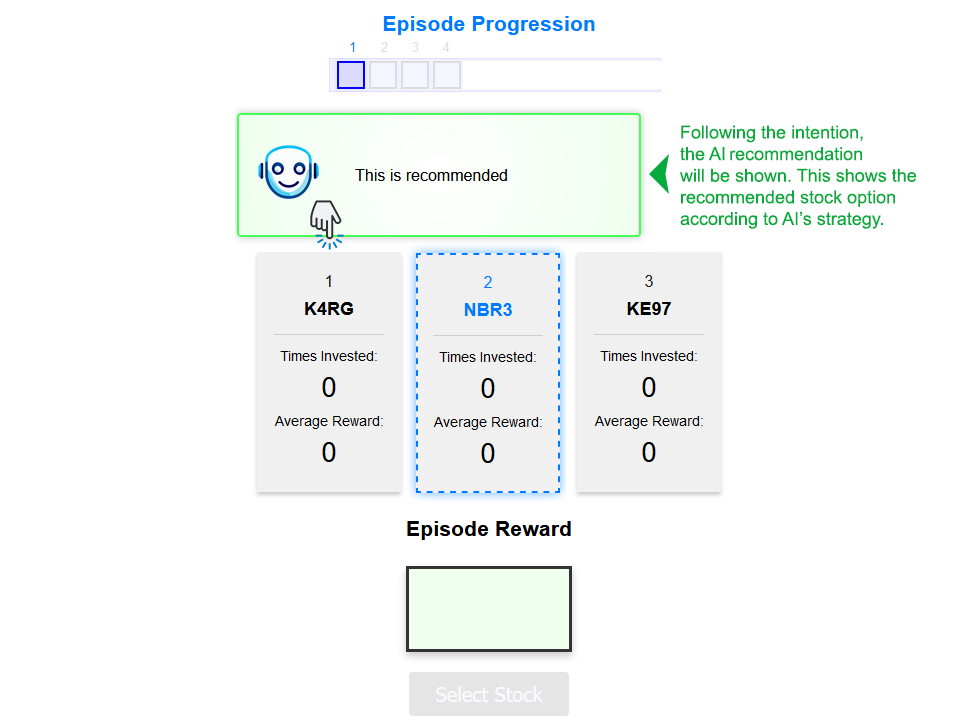
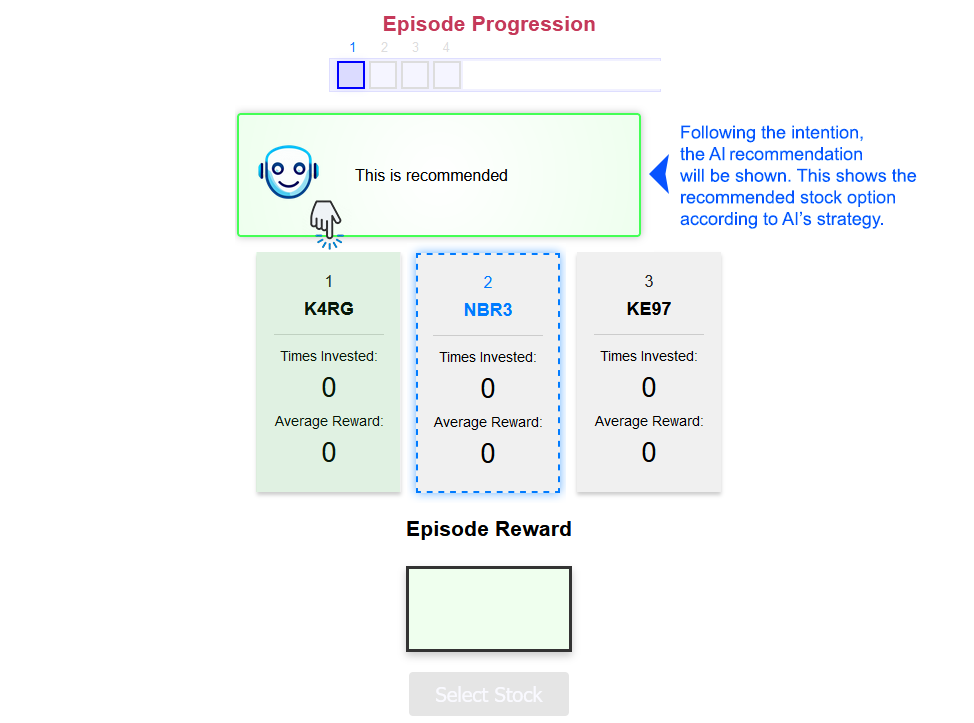
alpha update

Changed region(s): [[0.6468, 0.1521, 0.924, 0.3347], [0.4004, 0.0304, 0.616, 0.0609]]

diff --git a/app/templates/gamecomplete.html b/app/templates/gamecomplete.html
@@ -1,6 +1,41 @@
 {% extends 'base.html' %}
-{% block title %}First Game{% endblock %}
+{% block title %}Game Completed{% endblock %}
 {% block content %}
-Game Complete. Reward Code: #########
-<label for="rewardCode">Your extra earnings: {{ money_earned }}$</label>
+<script>
+    function copyToClipboard(elementId) {
+        var copyText = document.getElementById(elementId);
+        var textArea = document.createElement("textarea");
+        textArea.value = copyText.textContent;
+        document.body.appendChild(textArea);
+        textArea.select();
+        document.execCommand("Copy");
+        textArea.remove();
+    }
+</script>
+<div style="text-align: center;">
+    <h2>Congratulations, you completed the experiment.</h2>
+</div>
+
+<div style="text-align: center; margin-top: 20px;">
+    <div style="display: inline-block; padding: 10px; border: 1px solid #000; border-radius: 15px; font-size: 20px;" onclick="copyToClipboard('rewardC')">
+        Reward Code: <span id="rewardC" style="font-weight: bold; font-size:26px; color:#44ff55">{{ rewardC }}</span>
+        <button style="border: none; background: none;" onclick="copyToClipboard('rewardC')">
+            <img src="../static/copy_icon.png" alt="Copy to clipboard" width="20" height="26">
+        </button>
+    </div>
+</div>
+
+<div style="text-align: center; margin-top: 20px;">
+    <label for="rewardCode">Your extra earnings: ${{ money_earned }}</label>
+</div>
+
+<div id="survey" style="margin-left:0%; align-content:center; text-align:center; display: block;">
+    <p>We value your feedback! If you'd like, please share your thoughts about the experiment.</p><br>
+    <form method="POST" action="/gamecomplete/submit/">
+        <textarea id="feedback" name="feedback" rows="4" cols="50"></textarea>
+        <div id="complete" style="display: block; text-align: center;">
+            <button class="button" type="submit">Submit Feedback</button>
+        </div>
+    </form>
+</div>
 {% endblock %}

diff --git a/app/templates/task.html b/app/templates/task.html
@@ -55,10 +55,10 @@
       <h1>Investment Game</h1>
     </div>
     <div class="separator" style="width: 98%;"></div>
-    <p style="color: #222;">Welcome to the Investment Game. Discover six different investment options and maximize your earnings over 30 episodes!</p>
+    <p style="color: #222;">Welcome to the Investment Game. Explore six different investment options and maximize your earnings over 30 episodes!</p>
     <div class="separator" style="width: 98%;"></div>
     <div>
-      <div class="progress-subtitle" style="width: 98%; height: 40px; text-align: center;"><span style="height: 12px; color: #007bff; font-size: 16pt; font-weight: bold">Episode Progression</span></div>
+      <div class="progress-subtitle" style="width: 98%; height: 40px; text-align: center;"><span style="height: 12px; color: #7b0000; font-size: 16pt; font-weight: bold">Episode Progression</span></div>
     </div>     
     <div id="episode-numbers"></div>
       <div id="progress" style=" height: 32px; width: 97%; background-color: #f1f1ff; text-align: center; border:1px solid #dedeff;"></div>      
@@ -130,8 +130,8 @@
           <label class="question-label" for="q1">Which of the following is related to the topic of this survey?</label>
           <div class="question-options">
               <div class="options">
-                  <label class="option-label">Archeology</label>
-                  <input type="radio" name="q1" value="Archeology">
+                  <label class="option-label">Archaeology</label>
+                  <input type="radio" name="q1" value="Archaeology">
               </div>
               <div class="options">
                   <label class="option-label">Investment</label>

diff --git a/app/templates/login.html b/app/templates/login.html
@@ -68,11 +68,11 @@
                         In this study, you will engage in the investment game across multiple rounds.
                         <ul>
                         <li>You will see a tutorial explaining the game.</li>
-                        <li>Round 1: You'll play the Warm-Up game with an AI provides recommendations according to its own strategy. After the game, you will be asked to explain your strategy.</li>
+                        <li>Round 1: You'll play the Warm-Up game where an AI provides recommendations according to its own strategy. After the game, you will be asked to explain your strategy.</li>
                         <li>Round 2: You'll be paired with another AI and play the actual game where your score will determine your extra earnings.</li>
                         <li>Following the game completion, you will complete an evaluation survey.</li>
                         </ul>
-                        It's important to note that maintaining attention is crucial. Failing to pass more than 30% of the attention checks will result in failing the experiment.
+                        It's important to note that maintaining attention is crucial. Failing more than 30% of the attention checks will result in failing the experiment.
 
                         Thank you for your participation and enjoy the Investment Game Experiment!
                     </span>

diff --git a/app/templates/warmup.html b/app/templates/warmup.html
@@ -8,10 +8,10 @@
       <h1>Investment Game | Warm-Up</h1>
     </div>
     <div class="separator" style="width: 98%;"></div>
-    <p style="color: #222; width: 97%;">Welcome to the Warm-Up for Investment Game. Discover six different investment options and maximize your earnings over 10 episodes! The AI agent will provide recommendations specific for each episode.</p>
+    <p style="color: #222; width: 97%;">Welcome to the Warm-Up for Investment Game. Explore six different investment options and maximize your earnings over 10 episodes! The AI agent will provide recommendations specific for each episode.</p>
     <div class="separator" style="width: 98%;"></div>
     <div>
-      <div class="progress-subtitle" style="width: 98%; height: 40px; text-align: center;"><span style="height: 12px; color: #007bff; font-size: 16pt; font-weight: bold">Episode Progression</span></div>
+      <div class="progress-subtitle" style="width: 98%; height: 40px; text-align: center;"><span style="height: 12px; color: #7b0000; font-size: 16pt; font-weight: bold">Episode Progression</span></div>
     </div>      
     <div id="episode-numbers" style="text-align: center; justify-content: center;"></div>
       <div id="warmupprogress"></div>      

diff --git a/app/static/warmupgame.js b/app/static/warmupgame.js
@@ -95,9 +95,10 @@ document.addEventListener("DOMContentLoaded", function () {
       if (isAnimating) return; // Prevent interaction during animation
       const clickedOption = event.target.closest(".stock-option");
       if (!clickedOption) return;
-      stocksDiv.style.pointerEvents = "none";
+      //stocksDiv.style.pointerEvents = "none";
       if (intention == -1){
         isAnimating = true;
+        stocksDiv.style.pointerEvents = "none";
         setIntention(clickedOption);        
         setTimeout(() => {        
           stockOptions.forEach((opt, index) => {
@@ -121,7 +122,7 @@ document.addEventListener("DOMContentLoaded", function () {
                     //console.log("agent: " + agents);
                     if (index === agents - 1 && !recommendationShown) {
                       const image = document.createElement("img");
-                      image.src = "../static/hand_50.png";
+                      image.src = "../static/hand_100.png";
                       image.classList.remove("still");
                       image.classList.add("slide-down");
                       div.innerHTML = "";

diff --git a/app/static/game.js b/app/static/game.js
@@ -141,9 +141,10 @@ document.addEventListener("DOMContentLoaded", function () {
     if (isAnimating) return; // Prevent interaction during animation
     const clickedOption = event.target.closest(".stock-option");
     if (!clickedOption) return;
-    stocksDiv.style.pointerEvents = "none";
+    //stocksDiv.style.pointerEvents = "none";
     if (intention == -1){
       isAnimating = true;
+      stocksDiv.style.pointerEvents = "none";
       setIntention(clickedOption);        
       setTimeout(() => {        
         stockOptions.forEach((opt, index) => {

diff --git a/app/static/styles.css b/app/static/styles.css
@@ -90,7 +90,7 @@ form {
   border-radius: 4px;
   font-size: 20px;
   text-decoration: none;
-  color: #44ff55;
+  color: #f4f4ff;
   display: inline-block;
 }
 
@@ -124,7 +124,7 @@ form {
   width: calc(16.666%);
   background-color: transparent;
   height: 50px;
-  padding-top: 100px;
+  padding-top: 0px;
   position: relative; /* Position relative for absolute positioning */
   z-index: 2;
 }

diff --git a/app/templates/thankyou.html b/app/templates/thankyou.html
@@ -1,0 +1,8 @@
+{% extends 'base.html' %}
+{% block title %}Thank you{% endblock %}
+{% block content %}
+<div class="thank-you-message" style="text-align: center;">
+    <h1>Thank You!</h1>
+    <p>Your feedback has been submitted successfully.</p>
+</div>
+{% endblock %}

diff --git a/app/bandit.py b/app/bandit.py
@@ -1,9 +1,6 @@
 import numpy as np
 import random
 import math
-from scipy.optimize import fsolve
-from scipy.integrate import quad
-from scipy.stats import expon
 from app.recommendation import agent_recommender, agent_feedback
 
 class Bandit:
@@ -35,6 +32,21 @@ class Bandit:
     
     def recommend_arm(self):
         self.r[self.t] = 0
+        if (self.x[int(self.i[self.t])] < 1):
+            self.r[self.t] = self.i[self.t]
+            self.cases[self.t] = 1
+            return
+        
+        arms_to_recommend = []
+        for i in range(self.num_arms):
+            if self.x[i] < 1 and np.count_nonzero(self.r[:self.t] == i) < 2:
+                arms_to_recommend.append(i)
+
+        if arms_to_recommend:
+            self.r[self.t] = random.choice(arms_to_recommend)
+            self.cases[self.t] = 2
+            return 
+        '''
         # case 1:
         if (self.x[int(self.i[self.t])] < 1 and np.count_nonzero(self.r[:self.t] == int(self.i[self.t])) == 0):
             self.r[self.t] = self.i[self.t]
@@ -51,7 +63,7 @@ class Bandit:
             self.cases[self.t] = 2
             return 
         
-        '''
+        
         # case 2b:
         arms_to_recommend = []
         for i in range(self.num_arms):
@@ -65,7 +77,7 @@ class Bandit:
             print("Case 2b")
             return 
         '''
-
+        arms_to_recommend = []
         # case 3: UCB
         min_weight = 0.5
         max_weight = 0.9
@@ -73,17 +85,26 @@ class Bandit:
 
         max_value = 0.0
         max_arm = 0
+        ucb_values = np.zeros(self.num_arms)
         for i in range(self.num_arms):
             i_value = weight * (self.y[i] / (self.x[i] if self.x[i] != 0 else 0.1))
             i_value += (1 - weight) * math.sqrt(self.num_episodes / (self.x[i] if self.x[i] != 0 else 0.1))
 
+            ucb_values[i] = i_value
             if max_value < i_value:
                 max_value = i_value
                 max_arm = i
-            
-        self.cases[self.t] = 3
-        self.r[self.t] = max_arm
-        return
+        
+        arms_to_recommend = [i for i in range(self.num_arms) if ucb_values[i] == max_value]
+
+        if arms_to_recommend:
+            self.r[self.t] = random.choice(arms_to_recommend)
+            self.cases[self.t] = 3
+            return
+        else:
+            self.cases[self.t] = 3
+            self.r[self.t] = max_arm
+            return
         
     def pull_arm(self, arm_index):
         reward = np.random.exponential(self.beta_vals[arm_index])
@@ -149,10 +170,10 @@ class Bandit:
         lower = np.average(self.beta_vals)*self.num_episodes
         score = np.sum(self.y)
 
-        print(((score - lower) / (upper - lower)) * 2)
+        print(((score - lower) / (upper - lower)) )
         if score < lower:
             return 0
         elif score < upper:
-            return np.round(((score - lower) / (upper - lower)) * 2, 2)
+            return np.round(((score - lower) / (upper - lower)), 2)
         else:
-            return 2
+            return 1

diff --git a/app/views.py b/app/views.py
@@ -16,7 +16,10 @@ _beta = [0.9, 0.85, 0.75, 0.8, 0.3, 0.2]
 num_arms = 6  # Number of stock options
 num_episodes = 30
 money = 0
-bandit = bandit.Bandit(num_arms,num_episodes,beta_vals=_beta,condition=1)
+coldCondition = 0
+warmCondition = 1
+noExpCondition = 2
+bandit = bandit.Bandit(num_arms,num_episodes,beta_vals=_beta,condition=warmCondition)
 bandit.reset()
 
 class atnCheck:
@@ -323,6 +326,8 @@ def warmup():
 
     # Set experiment length
     bandit.num_episodes = 10
+    warmup_beta = [0.75, 0.8, 0.2, 0.85, 0.3, 0.9]
+    bandit.beta_vals = warmup_beta
     bandit.reset()
     if not current_user.is_authenticated:
         print("User not authenticated.")
@@ -392,6 +397,7 @@ def warmupcomplete():
 def task():
     # Set experiment length    
     bandit.num_episodes = 30
+    bandit.beta_vals = _beta
     bandit.reset()
     if not current_user.is_authenticated:
         print("User not authenticated.")
@@ -465,11 +471,42 @@ def taskcomplete():
 def gamecomplete():
     mturk_id = session.get('mturk_id')
     money = bandit.calculateMoney()
+    rewardC = rewardCode()
     log_experiment(f'{current_user.mturk_id} is on game complete page. Step: gamecomplete.')
+    log_experiment('Reward code: ' + str(rewardC))
     log_experiment('Money earned: ' + str(money))
     #bandit.reset()
 
-    return render_template('gamecomplete.html', mturk_id=mturk_id, money_earned=money)  
+    return render_template('gamecomplete.html', mturk_id=mturk_id, money_earned=money, rewardC=rewardC)
+
+@app.route('/gamecomplete/submit/', methods=['POST'])
+@login_required
+def expcomplete():
+    if not current_user.is_authenticated or not session.get('consent'):
+        log_experiment(f'{current_user.mturk_id} is not authenticated or consent not given. Step: taskcomplete.')
+        return redirect(url_for('clear_session_and_logout'))
+    
+    if request.method == 'POST':
+        
+        feedback = {}
+        feedback['feedback'] = request.form.get('feedback')        
+        # Save survey to database
+        survey = Survey(
+            mturk_id = session['mturk_id'],
+            type = 'feedback',
+            data = feedback,
+            timestamp = datetime.now()
+        )
+        
+        db.session.add(survey)
+        db.session.commit()
+        log_experiment(f'{current_user.mturk_id} has submitted feedback survey.')
+        log_experiment('Feedback: ' + str(feedback))
+     
+    return render_template('thankyou.html')
+
+def rewardCode():
+    return ''.join(random.choice('1234567890') for i in range(10))
 
 @app.route('/attention_check')
 def attention_check():
